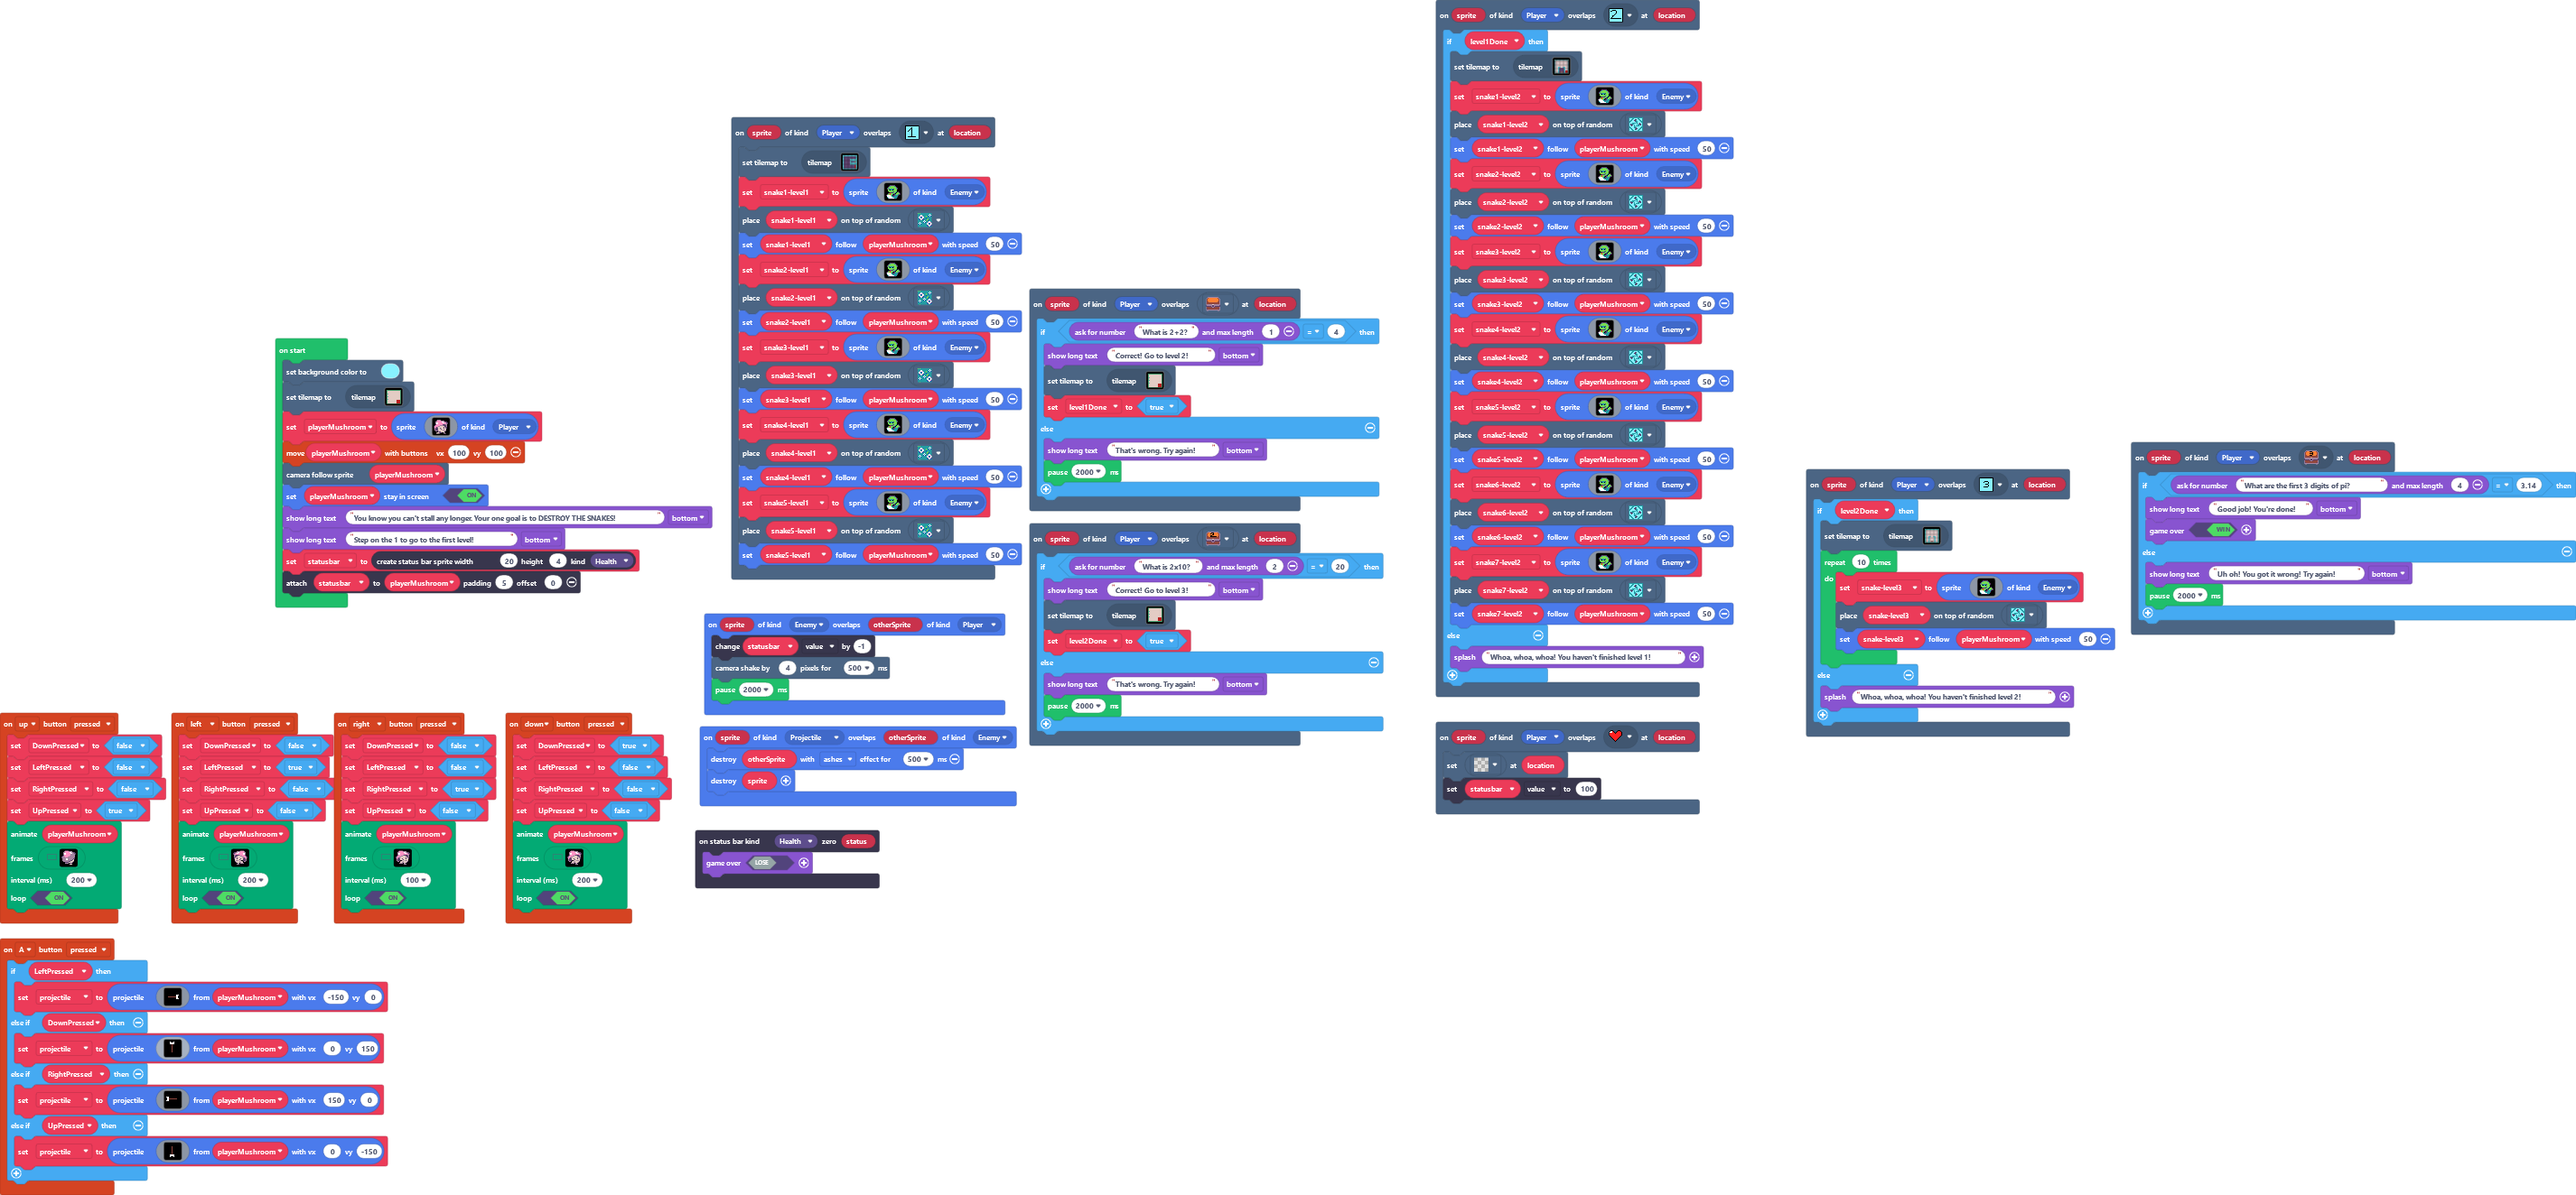
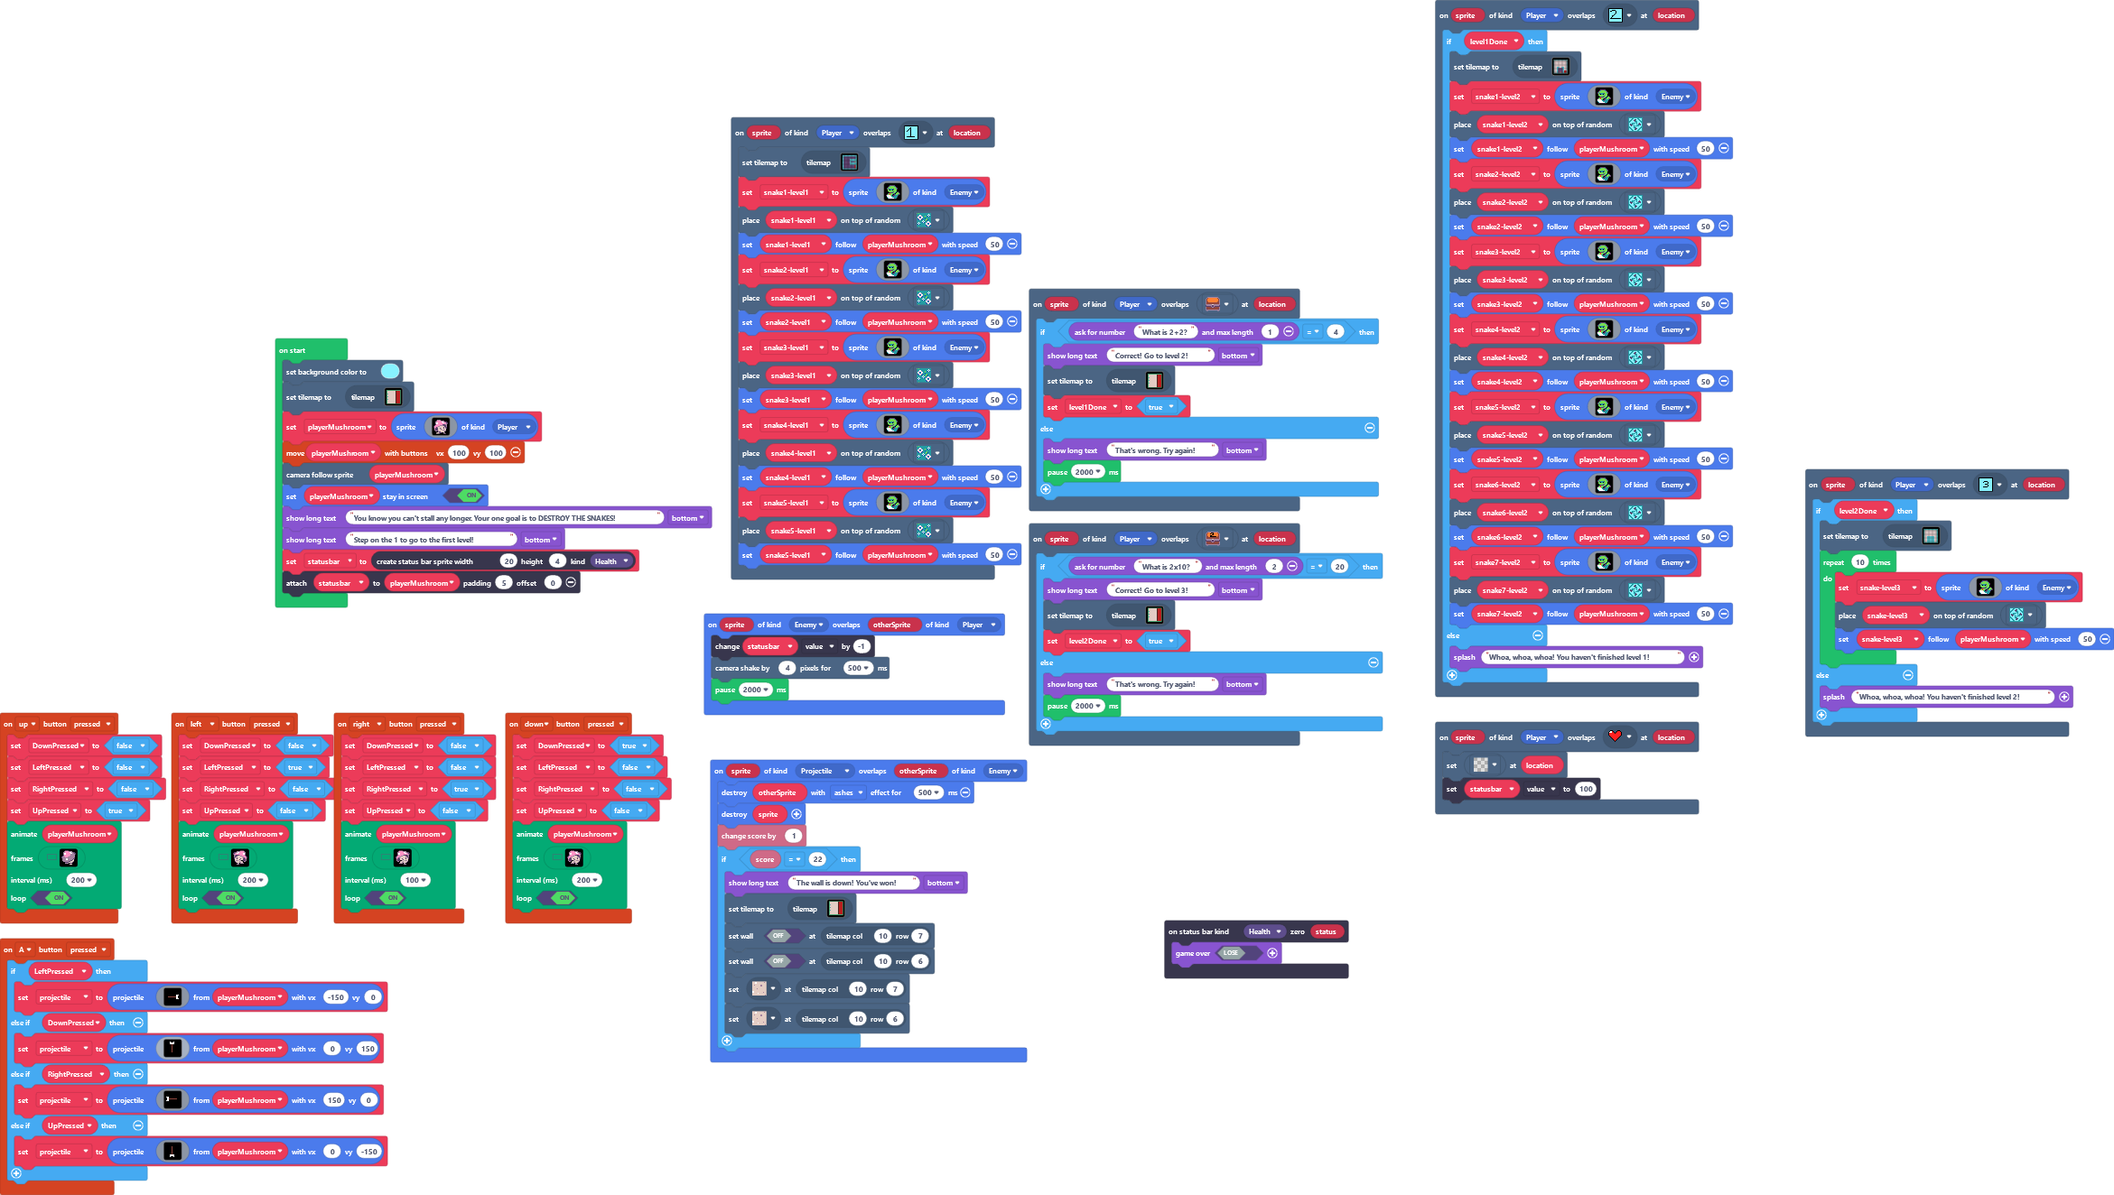
Update main.blocks, main.ts, tilemap.g.jres, tilemap.g.ts

diff --git a/tilemap.g.ts b/tilemap.g.ts
@@ -53,25 +53,6 @@ namespace myTiles {
 2 . . 2 . . . . 2 . . 2 
 2 2 2 2 2 2 2 2 2 2 2 2 
 `, [myTiles.transparency16,sprites.dungeon.greenOuterSouth0,sprites.dungeon.greenOuterSouthWest,sprites.dungeon.greenOuterEast1,sprites.dungeon.greenOuterNorthEast,sprites.dungeon.greenOuterSouthEast,sprites.dungeon.greenOuterWest1,sprites.dungeon.greenOuterNorth0,sprites.dungeon.greenOuterNorthWest,sprites.dungeon.floorLightMoss,sprites.dungeon.floorLight4,sprites.dungeon.darkGroundCenter,sprites.dungeon.collectibleInsignia,sprites.dungeon.floorLight0,myTiles.tile6,myTiles.tile7], TileScale.Sixteen);
-            case "teleportBase":
-            case "level3":return tiles.createTilemap(hex`1000100002020202020202020202020202020202020101010101010101010101010101020201010101010101010101010101010202010101010101010101010101010102020301010101010101010101010101020201010101010101010101010101010202010101010101010101010101010102020401010101010101010101010101020201010101010101010101010101010202010101010101010101010101010102020601010101010101010101010101020201010101010101010101050505050202010101010101010101010505050502020101010101010101010105050505020201010101010101010101050505050202020202020202020202020202020202`, img`
-2 2 2 2 2 2 2 2 2 2 2 2 2 2 2 2 
-2 . . . . . . . . . . . . . . 2 
-2 . . . . . . . . . . . . . . 2 
-2 . . . . . . . . . . . . . . 2 
-2 . . . . . . . . . . . . . . 2 
-2 . . . . . . . . . . . . . . 2 
-2 . . . . . . . . . . . . . . 2 
-2 . . . . . . . . . . . . . . 2 
-2 . . . . . . . . . . . . . . 2 
-2 . . . . . . . . . . . . . . 2 
-2 . . . . . . . . . . . . . . 2 
-2 . . . . . . . . . . . . . . 2 
-2 . . . . . . . . . . . . . . 2 
-2 . . . . . . . . . . . . . . 2 
-2 . . . . . . . . . . . . . . 2 
-2 2 2 2 2 2 2 2 2 2 2 2 2 2 2 2 
-`, [myTiles.transparency16,sprites.castle.tilePath5,sprites.builtin.forestTiles0,myTiles.tile3,myTiles.tile4,myTiles.tile7,myTiles.tile8], TileScale.Sixteen);
             case "level6":
             case "level6":return tiles.createTilemap(hex`1000100000000000000000000000000000000000000000000000000000000000000000000000000000000000000000000000000000000000000000000000000000000000000000000000000000000000000000000000000000000000000000000000000000000000000000000000000000000000000000000000000000000000000000000000000000000000000000000000000000000000000000000000000000000000000000000000000000000000000000000000000000000000000000000000000000000000000000000000000000000000000000000000000000000000000000000000000000000000000000000000000000000000000000000000000000000000`, img`
 . . . . . . . . . . . . . . . . 
@@ -91,21 +72,78 @@ namespace myTiles {
 . . . . . . . . . . . . . . . . 
 . . . . . . . . . . . . . . . . 
 `, [myTiles.transparency16], TileScale.Sixteen);
+            case "level7":
+            case "level7":return tiles.createTilemap(hex`1000100000000000000000000000000000000000000000000000000000000000000000000000000000000000000000000000000000000000000000000000000000000000000000000000000000000000000000000000000000000000000000000000000000000000000000000000000000000000000000000000000000000000000000000000000000000000000000000000000000000000000000000000000000000000000000000000000000000000000000000000000000000000000000000000000000000000000000000000000000000000000000000000000000000000000000000000000000000000000000000000000000000000000000000000000000000000`, img`
+. . . . . . . . . . . . . . . . 
+. . . . . . . . . . . . . . . . 
+. . . . . . . . . . . . . . . . 
+. . . . . . . . . . . . . . . . 
+. . . . . . . . . . . . . . . . 
+. . . . . . . . . . . . . . . . 
+. . . . . . . . . . . . . . . . 
+. . . . . . . . . . . . . . . . 
+. . . . . . . . . . . . . . . . 
+. . . . . . . . . . . . . . . . 
+. . . . . . . . . . . . . . . . 
+. . . . . . . . . . . . . . . . 
+. . . . . . . . . . . . . . . . 
+. . . . . . . . . . . . . . . . 
+. . . . . . . . . . . . . . . . 
+. . . . . . . . . . . . . . . . 
+`, [myTiles.transparency16], TileScale.Sixteen);
+            case "level8":
+            case "level8":return tiles.createTilemap(hex`1000100000000000000000000000000000000000000000000000000000000000000000000000000000000000000000000000000000000000000000000000000000000000000000000000000000000000000000000000000000000000000000000000000000000000000000000000000000000000000000000000000000000000000000000000000000000000000000000000000000000000000000000000000000000000000000000000000000000000000000000000000000000000000000000000000000000000000000000000000000000000000000000000000000000000000000000000000000000000000000000000000000000000000000000000000000000000`, img`
+. . . . . . . . . . . . . . . . 
+. . . . . . . . . . . . . . . . 
+. . . . . . . . . . . . . . . . 
+. . . . . . . . . . . . . . . . 
+. . . . . . . . . . . . . . . . 
+. . . . . . . . . . . . . . . . 
+. . . . . . . . . . . . . . . . 
+. . . . . . . . . . . . . . . . 
+. . . . . . . . . . . . . . . . 
+. . . . . . . . . . . . . . . . 
+. . . . . . . . . . . . . . . . 
+. . . . . . . . . . . . . . . . 
+. . . . . . . . . . . . . . . . 
+. . . . . . . . . . . . . . . . 
+. . . . . . . . . . . . . . . . 
+. . . . . . . . . . . . . . . . 
+`, [myTiles.transparency16], TileScale.Sixteen);
             case "level0":
[2 lines of base64/hex data omitted]
 2 2 2 2 2 2 2 2 2 2 2 2 
 2 . . . . . . . . . . 2 
 2 . . . . . . . . . . 2 
 2 . . . . . . . . . . 2 
 2 . . . . . . . . . . 2 
 2 . . . . . . . . . . 2 
-2 . . 2 2 . . 2 2 . . 2 
-2 . . 2 . . . . 2 . . 2 
-2 . . 2 . . . . 2 . . 2 
-2 . . 2 . . . . 2 . . 2 
-2 . . 2 . . . . 2 . . 2 
+2 . . . . . . . . . . 2 
+2 . . . . . . . . . . 2 
+2 . . . . . . . . . . 2 
+2 . . . . . . . . . . 2 
+2 . . . . . . . . . . 2 
 2 2 2 2 2 2 2 2 2 2 2 2 
-`, [myTiles.transparency16,sprites.dungeon.collectibleBlueCrystal,sprites.dungeon.floorLight5,sprites.dungeon.collectibleInsignia,myTiles.tile9], TileScale.Sixteen);
+`, [myTiles.transparency16,sprites.dungeon.collectibleBlueCrystal,sprites.dungeon.floorLight5,sprites.dungeon.collectibleInsignia], TileScale.Sixteen);
+            case "teleportBase":
+            case "level3":return tiles.createTilemap(hex`1000100002020202020202020202020202020202020101010101010101010705050505020201010101010101010107050505050202010101010101010101070505050502020301010101010101010705050505020201010101010101010107050505050202010101010101010101070505050502020401010101010101010705050505020201010101010101010107050505050202010101010101010101070505050502020601010101010101010705050505020201010101010101010107050505050202010101010101010101070505050502020101010101010101010705050505020201010101010101010107050505050202020202020202020202020202020202`, img`
+2 2 2 2 2 2 2 2 2 2 2 2 2 2 2 2 
+2 . . . . . . . . . 2 . . . . 2 
+2 . . . . . . . . . 2 . . . . 2 
+2 . . . . . . . . . 2 . . . . 2 
+2 . . . . . . . . . 2 . . . . 2 
+2 . . . . . . . . . 2 . . . . 2 
+2 . . . . . . . . . 2 . . . . 2 
+2 . . . . . . . . . 2 . . . . 2 
+2 . . . . . . . . . 2 . . . . 2 
+2 . . . . . . . . . 2 . . . . 2 
+2 . . . . . . . . . 2 . . . . 2 
+2 . . . . . . . . . 2 . . . . 2 
+2 . . . . . . . . . 2 . . . . 2 
+2 . . . . . . . . . 2 . . . . 2 
+2 . . . . . . . . . 2 . . . . 2 
+2 2 2 2 2 2 2 2 2 2 2 2 2 2 2 2 
+`, [myTiles.transparency16,sprites.castle.tilePath5,sprites.builtin.forestTiles0,myTiles.tile3,myTiles.tile4,myTiles.tile7,myTiles.tile8,myTiles.tile1], TileScale.Sixteen);
         }
         return null;
     })

diff --git a/main.ts b/main.ts
@@ -83,15 +83,6 @@ controller.left.onEvent(ControllerButtonEvent.Pressed, function () {
     true
     )
 })
-scene.onOverlapTile(SpriteKind.Player, assets.tile`level3Chest`, function (sprite, location) {
-    if (game.askForNumber("What are the first 3 digits of pi?", 4) == 3.14) {
-        game.showLongText("Good job! You're done!", DialogLayout.Bottom)
-        game.over(true)
-    } else {
-        game.showLongText("Uh oh! You got it wrong! Try again!", DialogLayout.Bottom)
-        pause(2000)
-    }
-})
 scene.onOverlapTile(SpriteKind.Player, sprites.dungeon.chestClosed, function (sprite, location) {
     if (game.askForNumber("What is 2+2?", 1) == 4) {
         game.showLongText("Correct! Go to level 2!", DialogLayout.Bottom)
@@ -159,6 +150,15 @@ scene.onOverlapTile(SpriteKind.Player, assets.tile`heartTile`, function (sprite,
 sprites.onOverlap(SpriteKind.Projectile, SpriteKind.Enemy, function (sprite, otherSprite) {
     otherSprite.destroy(effects.ashes, 500)
     sprite.destroy()
+    info.changeScoreBy(1)
+    if (info.score() == 22) {
+        game.showLongText("The wall is down! You've won!", DialogLayout.Bottom)
+        tiles.setCurrentTilemap(tilemap`teleportBase`)
+        tiles.setWallAt(tiles.getTileLocation(10, 7), false)
+        tiles.setWallAt(tiles.getTileLocation(10, 6), false)
+        tiles.setTileAt(tiles.getTileLocation(10, 7), sprites.castle.tilePath5)
+        tiles.setTileAt(tiles.getTileLocation(10, 6), sprites.castle.tilePath5)
+    }
 })
 let snake5level1: Sprite = null
 let snake4level1: Sprite = null
